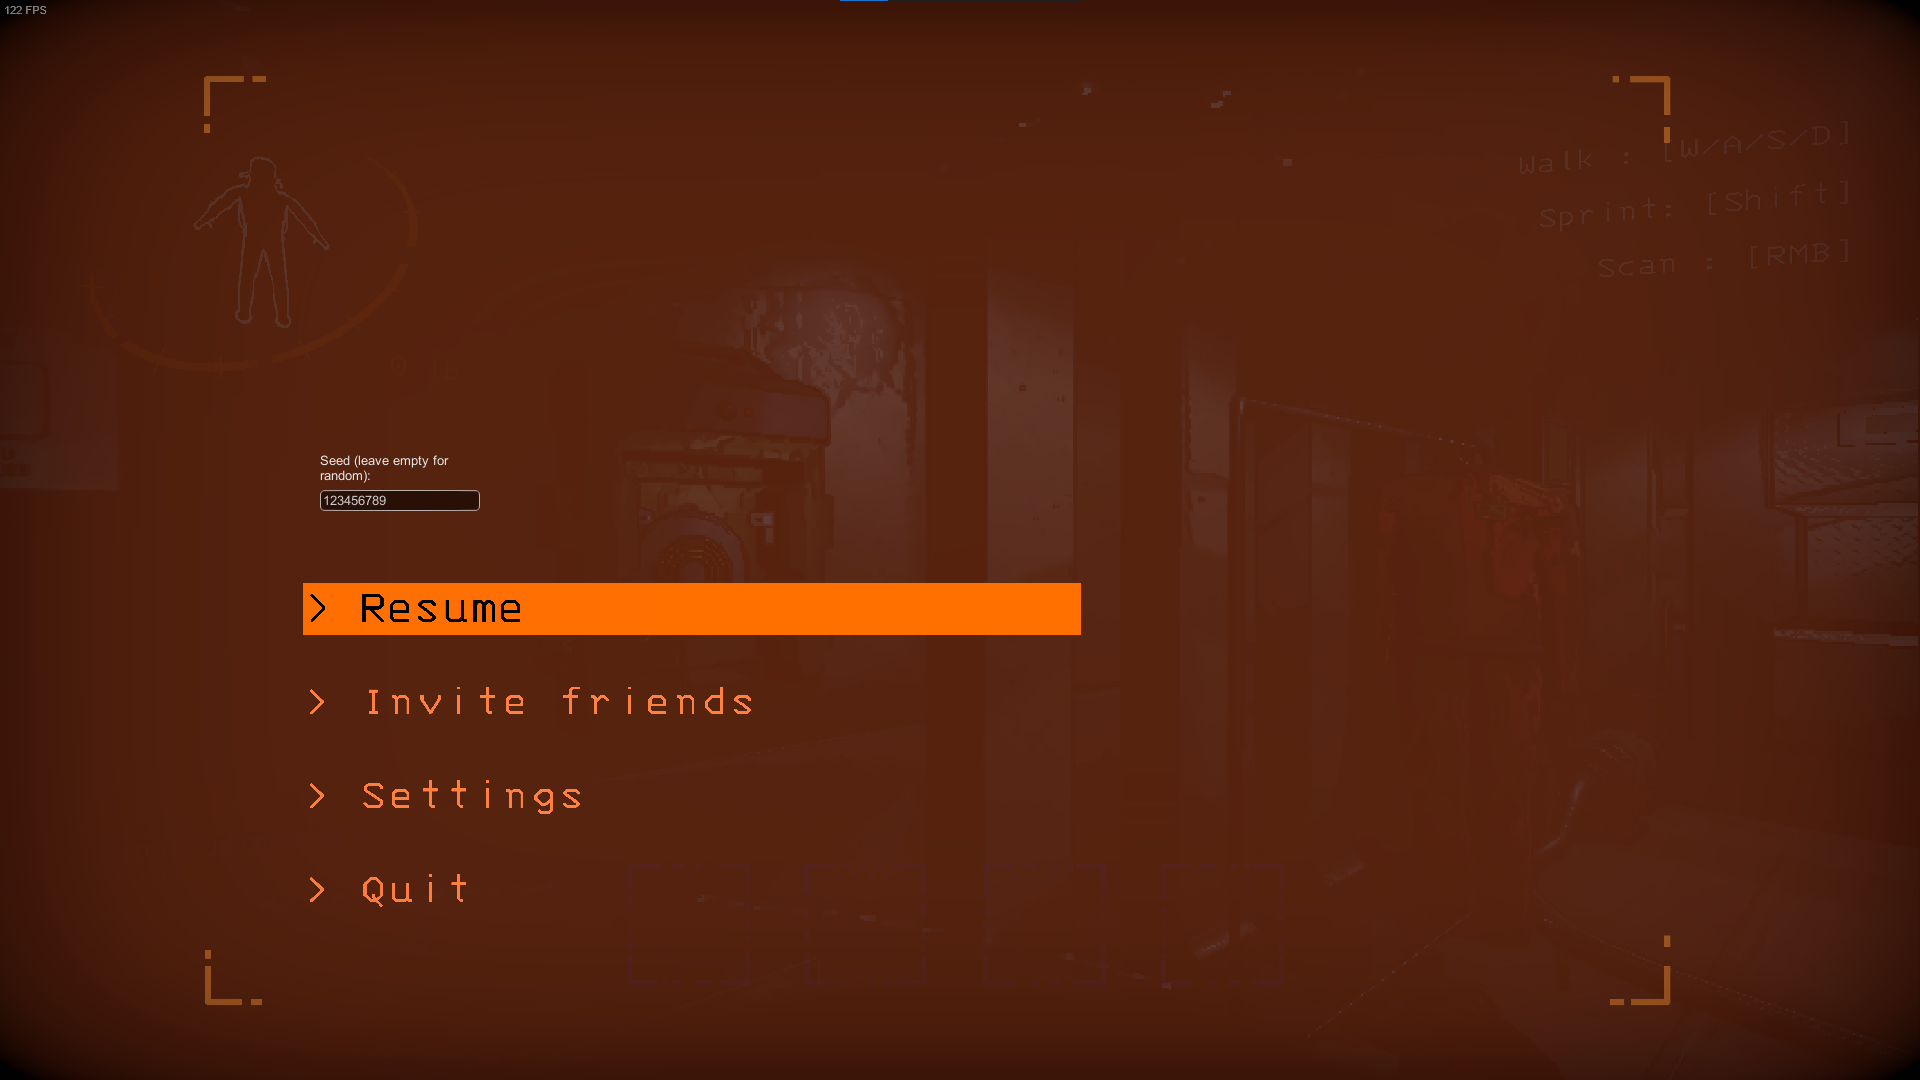
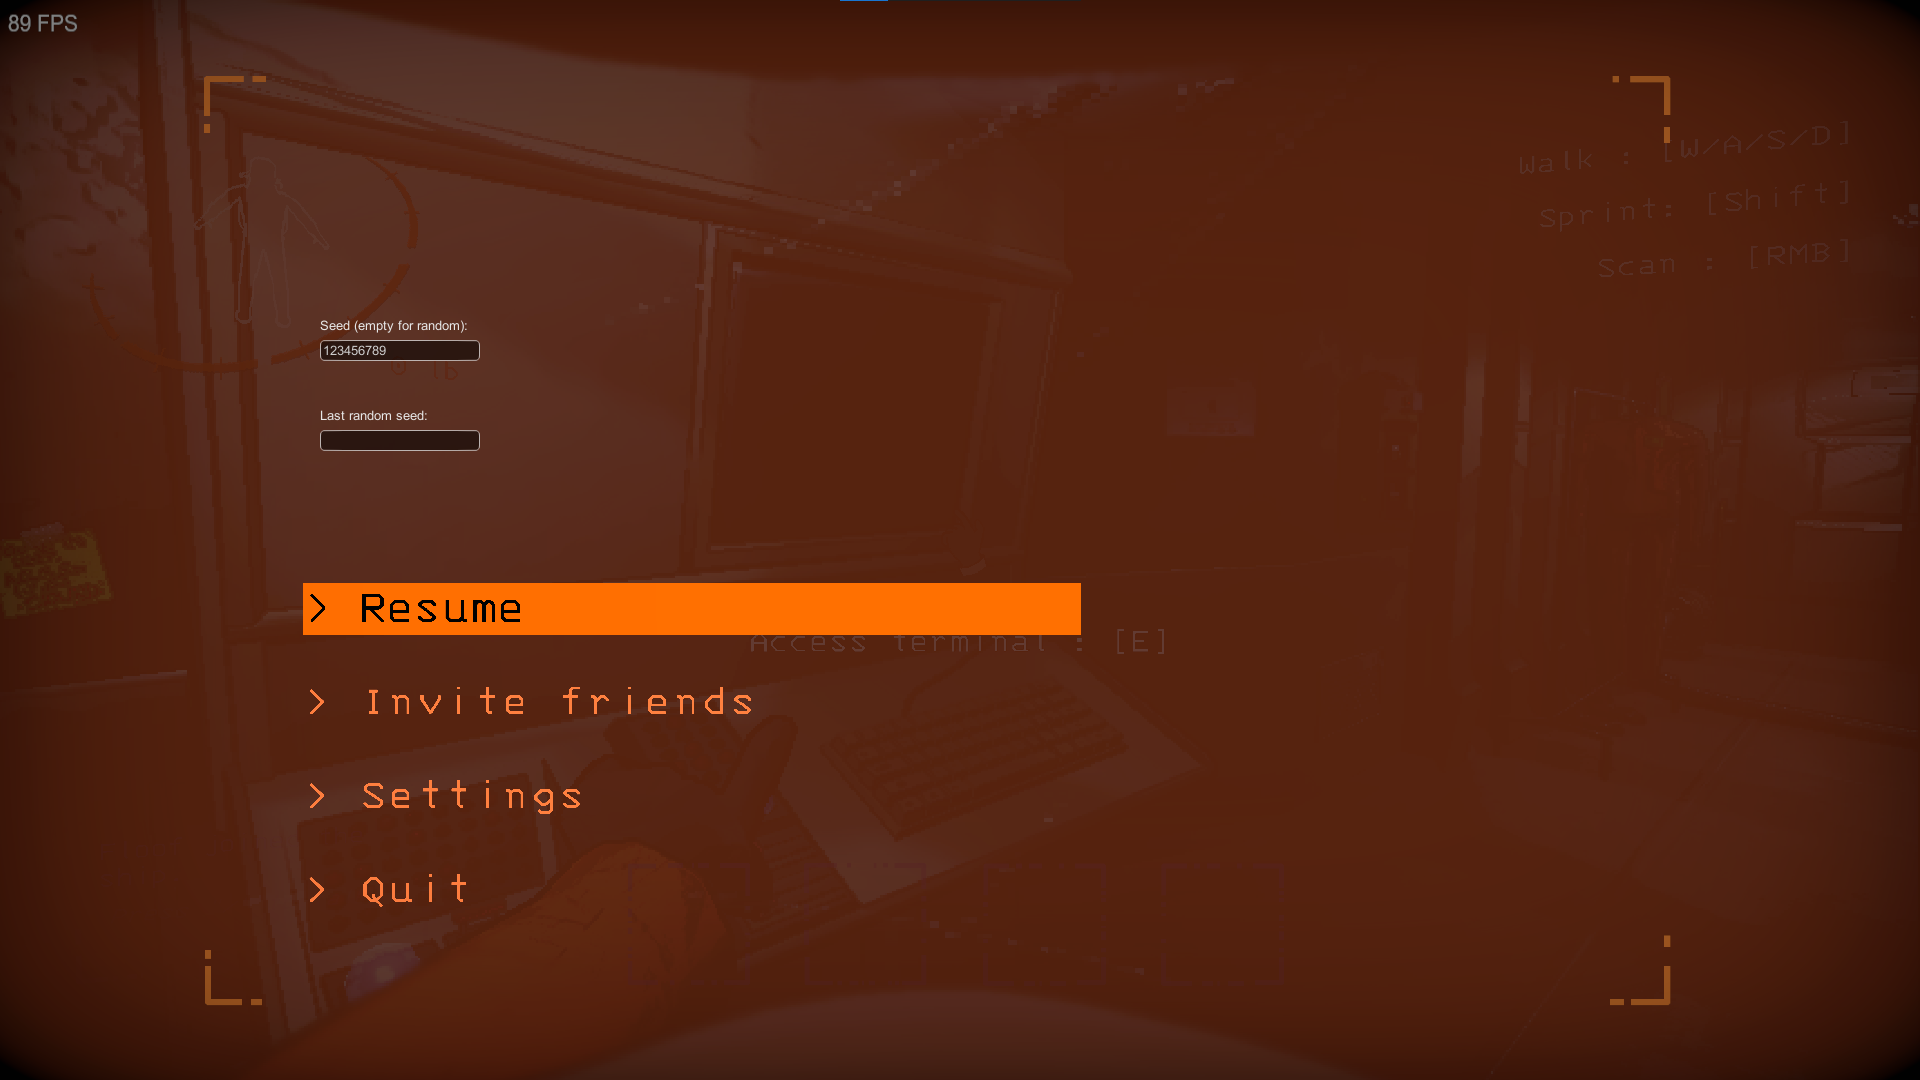
Show last random seed in ESC menu

diff --git a/Components/SeedInput.cs b/Components/SeedInput.cs
@@ -10,7 +10,8 @@ namespace LCSeedPicker.Components
     {
 
         public bool isVisible;
-        private string _seedString = "";
+        private string _seedInputString = "";
+        private string _seedOutputString = "";
 
         private int _maxSeedLength = 100;
         private float _inputWidth = 0f;
@@ -27,7 +28,7 @@ namespace LCSeedPicker.Components
             // Set input size based on screen size
             // TODO: add minimum size.
             _inputWidth = Math.Max(Screen.width / 12f, 100f);
-            _inputHeight = Math.Max(Screen.height / 6f, 10f);
+            _inputHeight = Math.Max(Screen.height / 12f, 10f);
 
         }
         
@@ -41,11 +42,16 @@ namespace LCSeedPicker.Components
             }
 
             float inputX = _inputWidth*2;
-            float inputY = Screen.height / 2 - _inputHeight / 2;
+            float inputY = Screen.height / 3 - _inputHeight / 2;
 
             GUILayout.BeginArea(new Rect(inputX, inputY, _inputWidth, _inputHeight));
-            GUILayout.Label("Seed (leave empty for random):");
-            _seedString = FilterSeedInput(GUILayout.TextField(_seedString, _maxSeedLength, _inputStyle));
+            GUILayout.Label("Seed (empty for random):");
+            _seedInputString = FilterSeedInput(GUILayout.TextField(_seedInputString, _maxSeedLength, _inputStyle));
+            GUILayout.EndArea();
+
+            GUILayout.BeginArea(new Rect(inputX, inputY+_inputHeight, _inputWidth, _inputHeight));
+            GUILayout.Label("Last random seed:");
+            GUILayout.TextArea(_seedOutputString, _inputStyle);
             GUILayout.EndArea();
         }
 
@@ -61,7 +67,7 @@ namespace LCSeedPicker.Components
             try
             {
                 // Convert seed to int
-                seed = int.Parse(_seedString);
+                seed = int.Parse(_seedInputString);
 
             } catch (Exception)
             {
@@ -71,6 +77,11 @@ namespace LCSeedPicker.Components
             if (seed < 0 || seed > Math.Pow(10, _maxSeedLength)) seed = -1;
             
             return seed;
+        }
+
+        public void SetLastSeed(int lastSeed)
+        {
+            _seedOutputString = $"{lastSeed}";
         }
 
         public void DestroyInput()

diff --git a/Patches/PatchStartOfRound.cs b/Patches/PatchStartOfRound.cs
@@ -31,5 +31,18 @@ namespace LCSeedPicker.Patches
             __instance.overrideRandomSeed = true;
             __instance.overrideSeedNumber = seed;
         }
+
+        [HarmonyPatch("StartGame")]
+        [HarmonyPostfix]
+        public static void GetSeed(StartOfRound __instance)
+        {
+            SeedInput seedInput = Plugin.SeedInput.GetComponent<SeedInput>();
+            // If currentLevel is null don't do anything (in what case is currentLevel null?)
+            if (__instance.currentLevel == null || seedInput == null) return;
+
+            if (!__instance.overrideRandomSeed) {
+                seedInput.SetLastSeed(__instance.randomMapSeed);
+            }
+        }
     }
 }

diff --git a/CHANGELOG.md b/CHANGELOG.md
@@ -1,3 +1,6 @@
+## 1.2.0
+- The last random seed is now shown in the ESC menu and can easily be copied & pasted
+
 ## 1.1.0
 - Mod now works for LAN games.
 
